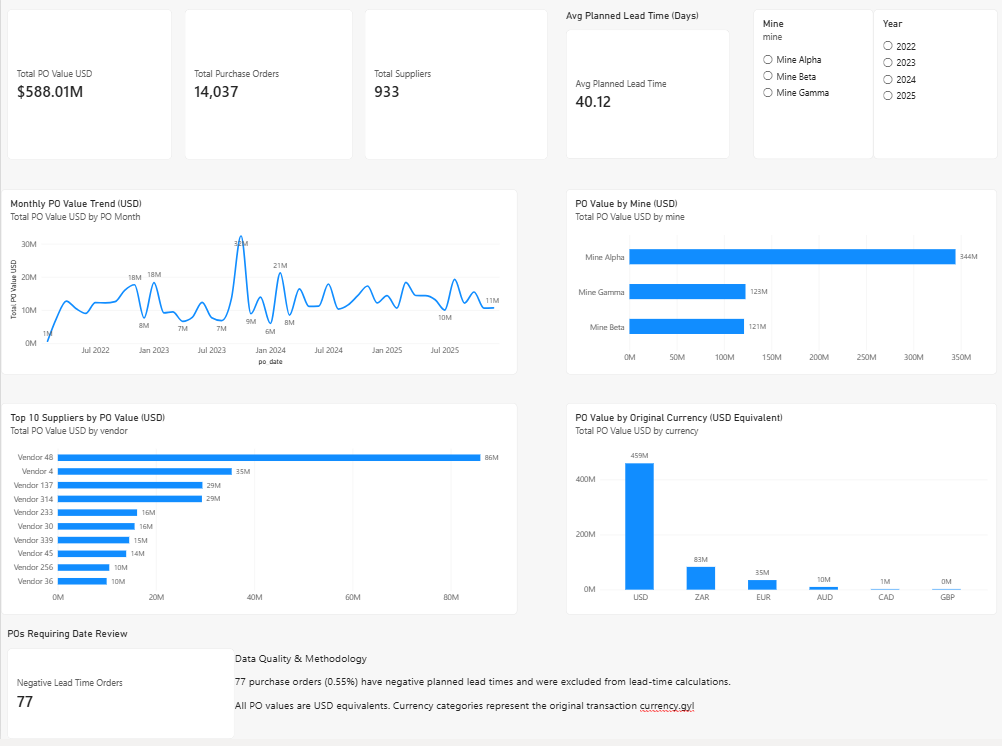
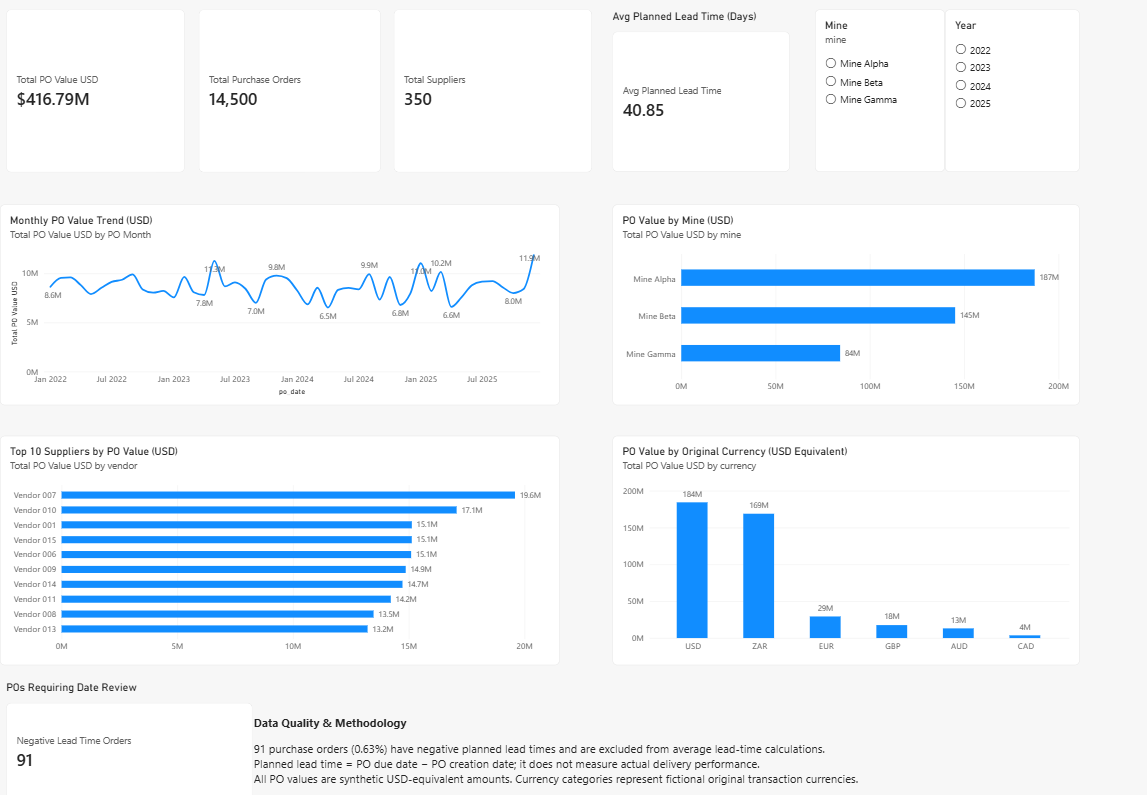
Add synthetic procurement dataset and supplier Pareto analysis

diff --git a/scripts/generate_synthetic_data.py b/scripts/generate_synthetic_data.py
@@ -1,0 +1,138 @@
+
+import csv
+import random
+from datetime import date, timedelta
+from decimal import Decimal, ROUND_HALF_UP
+from pathlib import Path
+
+# Reproducible synthetic data: no original SAP records are used.
+rng = random.Random(2026)
+
+NUMBER_OF_ORDERS = 14500
+NUMBER_OF_SUPPLIERS = 350
+
+OUTPUT_FILE = (
+    Path(__file__).resolve().parent.parent
+    / "data"
+    / "synthetic_purchase_orders.csv"
+)
+
+MINES = ["Mine Alpha", "Mine Beta", "Mine Gamma"]
+CURRENCIES = ["USD", "ZAR", "EUR", "GBP", "AUD", "CAD"]
+BUYERS = [f"Buyer {i:02d}" for i in range(1, 16)]
+SUPPLIERS = [
+    f"Vendor {i:03d}"
+    for i in range(1, NUMBER_OF_SUPPLIERS + 1)
+]
+
+HEADERS = [
+    "source_row_id_raw",
+    "shifted_row_id_raw",
+    "po_date_raw",
+    "due_date_raw",
+    "vendor_raw",
+    "currency_raw",
+    "mine_raw",
+    "buyer_raw",
+    "document_total_raw",
+    "po_number_raw",
+    "cod_ll_ke_raw",
+    "invoice_processed_raw",
+]
+
+# Some suppliers receive more orders than others.
+# This creates realistic supplier concentration.
+supplier_weights = [
+    25 if i < 15 else
+    10 if i < 65 else
+    3 if i < 180 else
+    1
+    for i in range(NUMBER_OF_SUPPLIERS)
+]
+
+start_date = date(2022, 1, 1)
+end_date = date(2025, 12, 31)
+date_range = (end_date - start_date).days
+
+rows = []
+
+for i in range(1, NUMBER_OF_ORDERS + 1):
+    po_date = start_date + timedelta(
+        days=rng.randint(0, date_range)
+    )
+
+    vendor = rng.choices(
+        SUPPLIERS,
+        weights=supplier_weights,
+        k=1
+    )[0]
+
+    mine = rng.choices(
+        MINES,
+        weights=[45, 35, 20],
+        k=1
+    )[0]
+
+    currency = rng.choices(
+        CURRENCIES,
+        weights=[45, 40, 7, 4, 3, 1],
+        k=1
+    )[0]
+
+    # Artificial USD-equivalent PO amount.
+    # Supplier-specific factors create spend concentration.
+    supplier_number = int(vendor.split()[1])
+    supplier_factor = (
+        4.0 if supplier_number <= 15 else
+        2.0 if supplier_number <= 65 else
+        1.0
+    )
+
+    amount = (
+        rng.lognormvariate(8.7, 1.25)
+        * supplier_factor
+    )
+
+    amount = min(amount, 2_500_000)
+
+    amount_usd = Decimal(str(amount)).quantize(
+        Decimal("0.01"),
+        rounding=ROUND_HALF_UP
+    )
+
+    # Planned lead time; some invalid dates for quality checks.
+    lead_time = rng.randint(7, 75)
+
+    if rng.random() < 0.006:
+        lead_time = -rng.randint(1, 15)
+
+    due_date = po_date + timedelta(days=lead_time)
+
+    rows.append([
+        i,
+        i + 100000,
+        po_date.isoformat(),
+        due_date.isoformat(),
+        vendor,
+        currency,
+        mine,
+        rng.choice(BUYERS),
+        str(amount_usd),
+        f"SYN-PO-{i:06d}",
+        rng.choice(["Yes", "No"]),
+        rng.choice(["Yes", "No"]),
+    ])
+
+OUTPUT_FILE.parent.mkdir(parents=True, exist_ok=True)
+
+with OUTPUT_FILE.open(
+    "w", newline="", encoding="utf-8"
+) as file:
+    writer = csv.writer(file)
+    writer.writerow(HEADERS)
+    writer.writerows(rows)
+
+print("Synthetic dataset generated successfully!")
+print(f"Purchase orders: {len(rows):,}")
+print(f"Suppliers available: {NUMBER_OF_SUPPLIERS}")
+print(f"Output: {OUTPUT_FILE}")

diff --git a/README.md b/README.md
@@ -4,23 +4,36 @@
 
 ## Project Overview
 
-An end-to-end procurement analytics portfolio project analysing 14,037 purchase orders dated February 2022 to December 2025 across three anonymised mining operations.
+An end-to-end procurement analytics portfolio project using a fully synthetic dataset of 14,500 purchase orders across three fictional mining operations from 2022 to 2025.
 
-The project demonstrates data preparation, SQL-based analysis, data-quality validation and interactive Power BI reporting.
+The dataset was independently generated using Python to simulate realistic procurement patterns, including multi-currency purchasing, supplier concentration, spend variation and planned lead times.
+
+The project demonstrates data generation, PostgreSQL data modelling, SQL-based analysis, data-quality validation, Power BI dashboard development and supplier Pareto analysis.
+
+All purchase-order records, suppliers, mining operations and financial values are fictional. The published project does not use original company transaction records.
 
 ## Dashboard Preview
 
-![Procurement Analytics Dashboard](screenshots/dashboard_overview.png)
+### Procurement Overview Dashboard
+
+![Procurement Overview Dashboard](screenshots/dashboard_overview.png)
+
+### Supplier Spend Pareto Analysis
+
+![Supplier Spend Pareto Analysis](screenshots/supplier_pareto.png)
 
 ## Key Metrics
 
+**Purchase-order grain:** Each staging-table record represents one distinct purchase order. Therefore, the 14,037 record count is also the unique purchase-order count.
+
 | Metric | Result |
 |---|---:|
-| Purchase Orders | 14,037 |
-| Total PO Value (USD Equivalent) | $588.01M |
-| Unique Suppliers | 933 |
-| Average Planned Lead Time | 40.12 days |
-| Negative Planned Lead-Time Records | 77 (0.55%) |
+| Purchase Orders | 14,500 |
+| Total PO Value (USD Equivalent) | $416.79M |
+| Unique Suppliers | 350 |
+| Average Planned Lead Time | 40.85 days |
+| Negative Planned Lead-Time Records | 91 |
+| Period | 2022–2025 |
 
 ## Business Questions
 
@@ -97,15 +110,30 @@ Procurement-Spend-Analytics/
 
 ## Data Availability
 
-The underlying purchase-order dataset is not publicly distributed to protect confidential business information.
+The dataset is fully synthetic and reproducible using scripts/generate_synthetic_data.py.
 
-The Power BI `.pbix` file is also excluded from the public repository because it contains imported row-level data.
+The project generates 14,500 fictional purchase orders covering 350 suppliers and three fictional mining operations.
 
-The repository includes SQL scripts, DAX measures, project documentation and a dashboard screenshot to demonstrate the analytical methodology and reporting capabilities.
+The Power BI .pbix file is excluded from the repository. SQL scripts, DAX measures, Python generation code and anonymised dashboard screenshots are provided to demonstrate the analytical workflow.
+
+## Supplier Pareto Analysis
+
+Supplier spend concentration was analysed using SQL window functions and Power BI DAX measures.
+
+**Key findings from the complete synthetic dataset:**
+
+- Total suppliers: **350**
+- Suppliers accounting for approximately 80% of spend: **57**
+- Share of supplier base: **16.29%**
+- Cumulative spend represented: **80.02%**
+
+The analysis demonstrates how supplier concentration can inform strategic sourcing priorities, supplier relationship management and dependency-risk assessments.
+
+The Power BI Pareto visual includes supplier spend rankings, cumulative spend percentages and an 80% reference line.
 
 ## Future Improvements
 
-- Supplier concentration and Pareto analysis
+- Supplier segmentation and concentration risk assessment
 - Year-over-year procurement value comparisons
 - Additional data-quality checks
 - Supplier performance analysis using actual delivery dates when available
